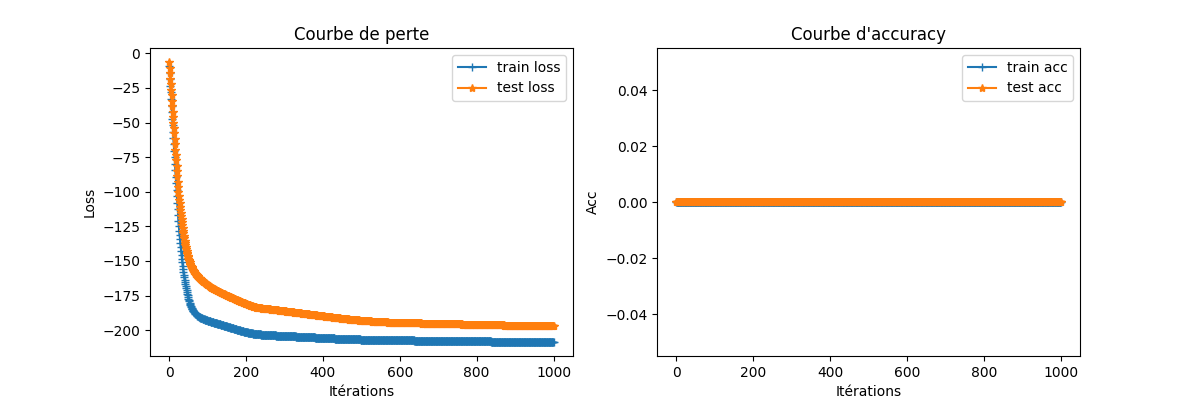
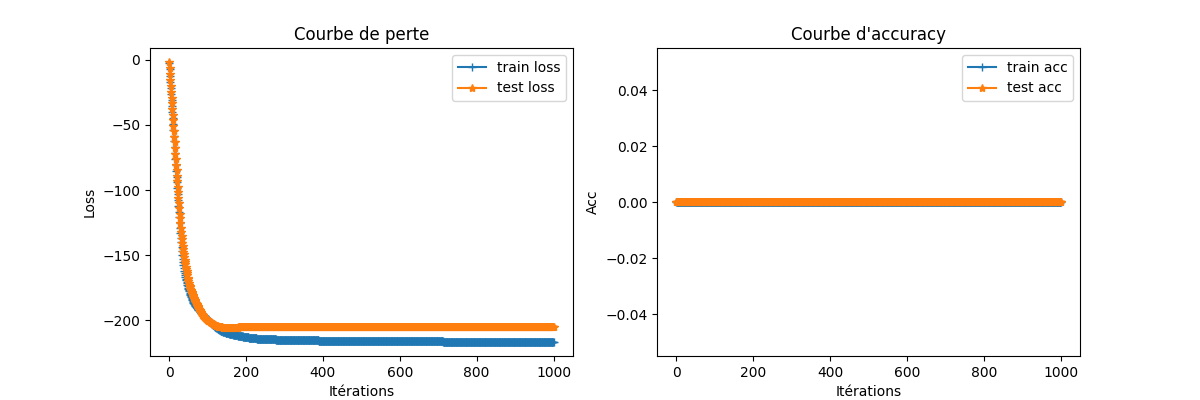
ajustement sur y et ajout normalisation temp

diff --git a/Training/first_proto.py b/Training/first_proto.py
@@ -33,17 +33,17 @@ class Neurone:
         return np.sum(-y * np.log(A + epsilon) - (1 - y) * np.log(1 - A + epsilon), axis=0) / len(y)
 
     def gradients(self, A, X, y):
-        print(X.T.shape)
-        print(A.shape)
-        print(y.shape)
-        print((A - y).shape)
+        #print(X.T.shape)
+        #print(A.shape)
+        #print(y.shape)
+        #print((A - y).shape)
         dW = np.dot(X.T, A - y) / len(y)
         db = np.sum(A - y, axis = 0) / len(y)
         return dW, db
 
     def update(self, dW, db, learning_rate):
-        print(dW.shape)
-        print(self.W.shape)
+        #print(dW.shape)
+        #print(self.W.shape)
         self.W -= learning_rate * dW
         self.b -= learning_rate * db
 
@@ -116,12 +116,12 @@ def main_for_sleep_dat(bool_c, bool_t, path_n, path_c):
         df = imputation(df)
 
         X = df.drop(columns='Quality of Sleep', axis=1)
-        y = df['Quality of Sleep']
-        y = y.reshape(-1, 1)
-        print(y.shape)
+        y = df['Quality of Sleep'].values.reshape(-1, 1)  # Reshape y to (299, 1)
+        #print(y.shape)
 
-        #print(y.value_counts())
-        #print()
+        # Normalize features
+        scaler = StandardScaler()
+        X = scaler.fit_transform(X)
 
         return X, y
          
